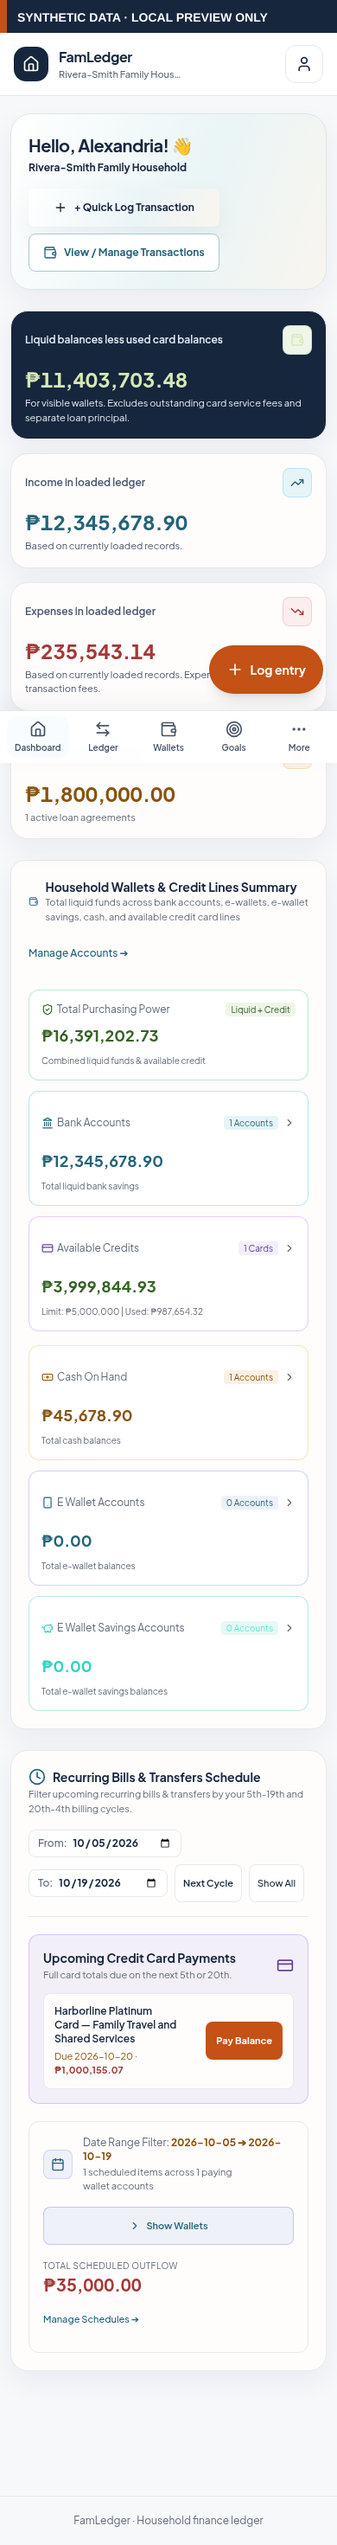
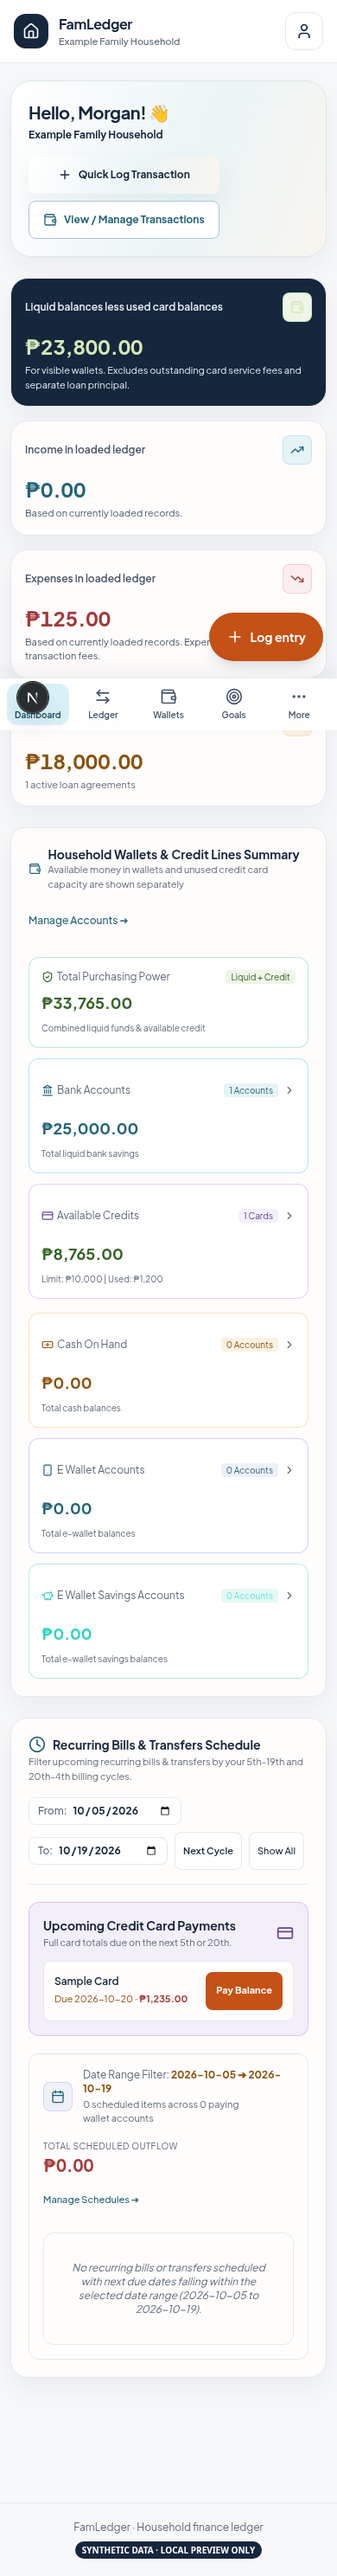
fix: polish mobile activity and dashboard labels

diff --git a/src/components/ActivityLogView.tsx b/src/components/ActivityLogView.tsx
@@ -85,17 +85,17 @@ export const ActivityLogView: React.FC = () => {
           </p>
         </div>
 
-        <div className="flex items-center space-x-3 w-full md:w-auto justify-end">
+        <div className="flex w-full flex-col items-stretch gap-2 md:w-auto md:flex-row md:items-center md:justify-end">
           <button
             onClick={exportFullHouseholdBackup}
-            className="flex items-center space-x-1.5 bg-emerald-600 hover:bg-emerald-500 text-white px-3.5 py-2 rounded-lg font-bold text-xs transition-all shadow shrink-0"
+            className="flex w-full items-center justify-center space-x-1.5 bg-emerald-600 hover:bg-emerald-500 text-white px-3.5 py-2 rounded-lg font-bold text-xs transition-all shadow md:w-auto"
             title="Download complete JSON backup file of household accounts, loans, and ledger"
           >
             <Download className="w-4 h-4" />
             <span>Export Backup (JSON)</span>
           </button>
 
-          <label className="flex items-center space-x-1.5 bg-sky-600 hover:bg-sky-500 text-white px-3.5 py-2 rounded-lg font-bold text-xs cursor-pointer transition-all shadow shrink-0">
+          <label className="flex w-full items-center justify-center space-x-1.5 bg-sky-600 hover:bg-sky-500 text-white px-3.5 py-2 rounded-lg font-bold text-xs cursor-pointer transition-all shadow md:w-auto">
             <Upload className="w-4 h-4" />
             <span>Restore Backup (JSON)</span>
             <input 
@@ -110,7 +110,7 @@ export const ActivityLogView: React.FC = () => {
             <button
               type="button"
               onClick={handleResetDemoData}
-              className="flex items-center space-x-1.5 bg-rose-600 hover:bg-rose-500 text-white px-3.5 py-2 rounded-lg font-bold text-xs transition-all shadow shrink-0"
+              className="flex w-full items-center justify-center space-x-1.5 bg-rose-600 hover:bg-rose-500 text-white px-3.5 py-2 rounded-lg font-bold text-xs transition-all shadow md:w-auto"
               title="Clear saved household demo data from this browser"
             >
               <Trash2 className="w-4 h-4" />

diff --git a/src/components/DashboardView.tsx b/src/components/DashboardView.tsx
@@ -336,7 +336,7 @@ export const DashboardView: React.FC<DashboardViewProps> = ({ setActiveTab, onOp
             className="flex items-center justify-center space-x-2 bg-gradient-to-r from-sky-600 to-indigo-600 hover:from-sky-500 hover:to-indigo-500 text-white font-bold text-xs px-4 py-2.5 rounded-lg transition-all shadow-lg active:scale-95"
           >
             <Plus className="w-4 h-4" />
-            <span>+ Quick Log Transaction</span>
+            <span>Quick Log Transaction</span>
           </button>
           <button
             type="button"
@@ -427,7 +427,7 @@ export const DashboardView: React.FC<DashboardViewProps> = ({ setActiveTab, onOp
             <WalletIcon className="w-5 h-5 text-sky-400" />
             <div>
               <h3 className="font-bold text-sm text-white">Household Wallets & Credit Lines Summary</h3>
-              <p className="text-[11px] text-slate-400">Total liquid funds across bank accounts, e-wallets, e-wallet savings, cash, and available credit card lines</p>
+              <p className="text-[11px] text-slate-400">Available money in wallets and unused credit card capacity are shown separately</p>
             </div>
           </div>
           <button

diff --git a/artifacts/browser-verification/QA-report.md b/artifacts/browser-verification/QA-report.md
@@ -15,6 +15,7 @@
 - Selected desktop navigation contrast: 15.23:1. Secondary hero action: 6.69:1.
 - Browser reported no uncaught page errors. Seventeen requests to the dummy loopback API were intentionally blocked; associated console errors were expected.
 - 200% reflow was checked using a 720 CSS-pixel viewport (equivalent to 1440px at 200%) because browser zoom controls were unavailable in headless Chromium.
+- Targeted mobile polish recheck (2026-10-09, 390 CSS px): Quick Log renders one plus icon with no duplicate plus character; the wallet summary says available money and unused card capacity are shown separately; Activity Log backup controls stack inside the header card. The Restore Backup control remained within the 350px card (x=20–370), with document and body scroll widths at the 390px viewport width. No uncaught page errors.
 
 ## Captures
 
@@ -24,9 +25,10 @@ All captures include the visible `SYNTHETIC DATA · LOCAL PREVIEW ONLY` watermar
 | --- | ---: |
 | `dashboard-1440-SYNTHETIC.png` | 1440 × 1313 |
 | `dashboard-768-SYNTHETIC.png` | 768 × 2242 |
-| `dashboard-390-SYNTHETIC.png` | 390 × 2942 |
+| `dashboard-390-SYNTHETIC.png` | 390 × 2977 |
 | `mobile-more-390-SYNTHETIC.png` | 390 × 940 |
+| `activity-log-390-SYNTHETIC.png` | 390 × 930 |
 
 ## Scope and repository state
 
-Financial formulas and mutations were not changed. No production connection, migration, security change, push, merge, or deployment was performed. The work is uncommitted on the working branch; repository diff checks passed.
+Financial formulas and mutations were not changed. No production connection, migration, security change, merge, or manual deployment was performed. The reviewed implementation and synthetic captures are presented in draft PR #2.
